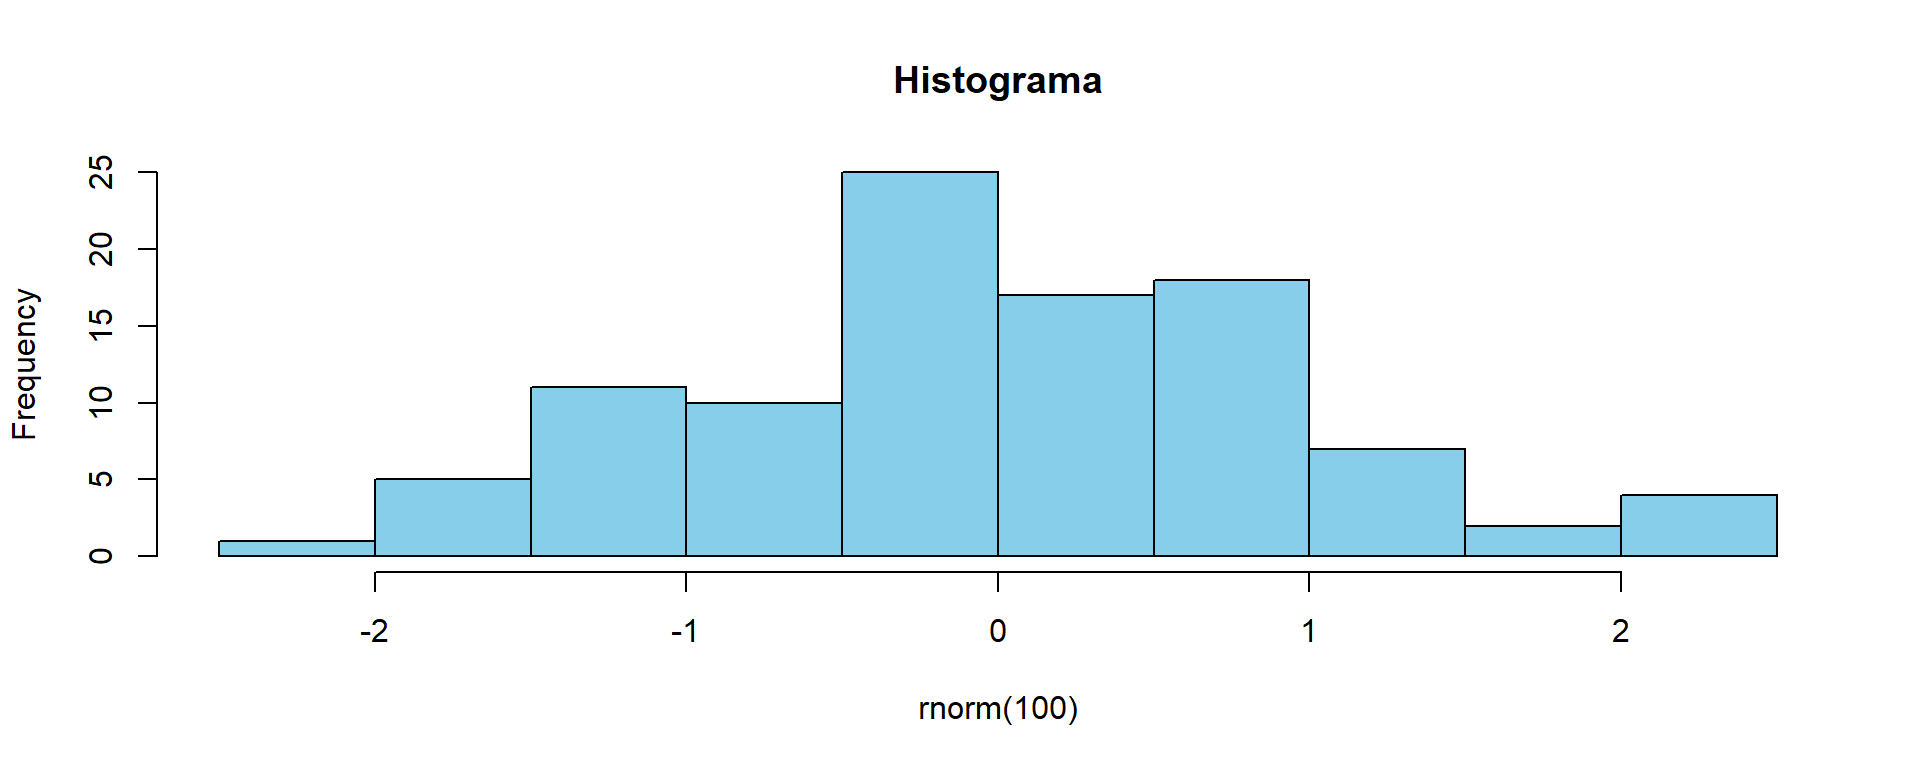
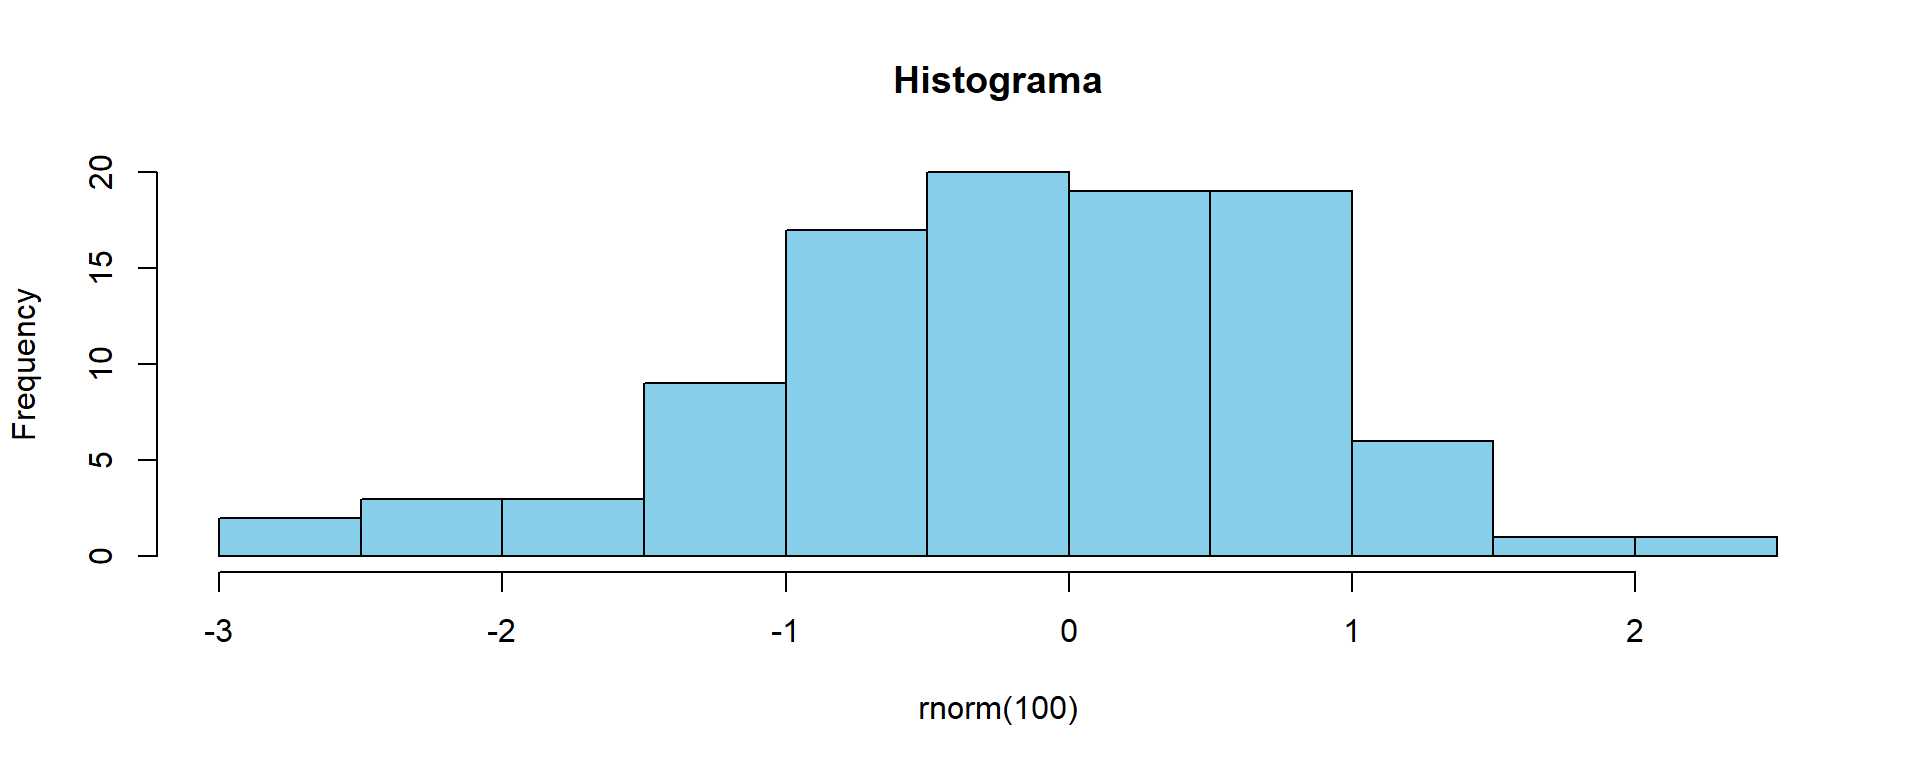
gráficos novos

diff --git a/docs/index.html b/docs/index.html
@@ -9,7 +9,8 @@
 <link href="index_files/libs/quarto-html/quarto-syntax-highlighting-845c23b38eaddc0f92fda52bfe77a8c8.css" rel="stylesheet" id="quarto-text-highlighting-styles"><meta charset="utf-8">
   <meta name="generator" content="quarto-1.9.36">
 
-  <meta name="author" content="Nome1 (seuemail1@id.uff.br)   Nome2 (seuemail2@id.uff.br)">
+  <meta name="author" content="Agatha Dias Roque (Agathadias@id.uff.br)   Vitor Eduardo Bezerra Ferreira (ferreiravitor@id.uff.br)">
+  <meta name="dcterms.date" content="2023-01-06">
   <title>PRÁTICA ESTATÍSTICA II</title>
   <meta name="apple-mobile-web-app-capable" content="yes">
   <meta name="apple-mobile-web-app-status-bar-style" content="black-translucent">
@@ -132,12 +133,12 @@
 
 <section id="title-slide" data-background-image="Capa.png" data-background-size="cover" class="quarto-title-block center">
   <h1 class="title"><strong>PRÁTICA ESTATÍSTICA II</strong></h1>
-  <p class="subtitle"><strong>ATIVIDADE AVALIATIVA 0</strong></p>
+  <p class="subtitle"><strong>ATIVIDADE AVALIATIVA 9</strong></p>
 
 <div class="quarto-title-authors">
 <div class="quarto-title-author">
 <div class="quarto-title-author-name">
-Nome1 (<a href="mailto:seuemail1@id.uff.br" class="email">seuemail1@id.uff.br</a>) <br> Nome2 (<a href="mailto:seuemail2@id.uff.br" class="email">seuemail2@id.uff.br</a>) 
+Agatha Dias Roque (<a href="mailto:Agathadias@id.uff.br" class="email">Agathadias@id.uff.br</a>) <br> Vitor Eduardo Bezerra Ferreira (<a href="mailto:ferreiravitor@id.uff.br" class="email">ferreiravitor@id.uff.br</a>) 
 </div>
         <p class="quarto-title-affiliation">
             Universidade Federal Fluminense
@@ -145,7 +146,7 @@ Nome1 (<a href="mailto:seuemail1@id.uff.br" class="email">seuemail1@id.uff.br</a
     </div>
 </div>
 
-  <p class="date">31/05/2026</p>
+  <p class="date">01/06/2023</p>
 </section>
 <section>
 <section id="função-read_schools" class="title-slide slide level1 center" data-background-image="Capa.png" style="text-align:center">
@@ -261,19 +262,27 @@ Nome1 (<a href="mailto:seuemail1@id.uff.br" class="email">seuemail1@id.uff.br</a
 <p><br></p>
 <div class="quarto-figure quarto-figure-center">
 <figure>
-<p><img data-src="Grafico_distribuicao_schools_1.png" class="quarto-figure quarto-figure-center" style="height:100.0%"></p>
+<p><img data-src="Grafico_schools.png" class="quarto-figure quarto-figure-center" style="height:100.0%"></p>
 </figure>
 </div>
 </section>
-<section id="sobreposição-de-camadas" class="slide level2">
-<h2><strong>Sobreposição de camadas </strong></h2>
+<section id="sobreposição-com-read_states" class="slide level2">
+<h2><strong>Sobreposição com read_states </strong></h2>
 <p><br></p>
 <div class="quarto-figure quarto-figure-center">
 <figure>
-<p><img data-src="Grafico_sobreposicao_schools_1.png" class="quarto-figure quarto-figure-center" style="height:100.0%"></p>
+<p><img data-src="Grafico_schools_states.png" class="quarto-figure quarto-figure-center" style="height:100.0%"></p>
 </figure>
 </div>
+</section>
+<section id="sobreposição-com-read_municipality" class="slide level2">
+<h2>Sobreposição com read_municipality</h2>
 <p><br></p>
+<div class="quarto-figure quarto-figure-center">
+<figure>
+<p><img data-src="Grafico_schools_muni.png" class="quarto-figure quarto-figure-center" style="height:100.0%"></p>
+</figure>
+</div>
 </section>
 <section id="section" class="slide level2">
 <h2></h2>
@@ -282,7 +291,7 @@ Nome1 (<a href="mailto:seuemail1@id.uff.br" class="email">seuemail1@id.uff.br</a
 <ul>
 <li>Cada ponto representa uma escola;</li>
 <li>Maior concentração nas áreas urbanizadas;</li>
-<li>Permite visualizar a distribuição espacial nacional.</li>
+<li>Permite visualizar a distribuição espacial tanto nacional, quanto municipal.</li>
 </ul>
 </section>
 <section id="conclusão" class="slide level2">

diff --git a/docs/custom.css b/docs/custom.css
@@ -39,7 +39,7 @@
 .reveal .title-slide {
   background: linear-gradient(
     135deg,
-    #726b5f
+    #ffffff
   );
   color: #336699;
 }
@@ -47,7 +47,7 @@
 .reveal .title-slide h1,
 .reveal .title-slide h2,
 .reveal .title-slide p {
-  color: white;
+  color: #726b5f;
 }
 
 /* ===== Texto ===== */
